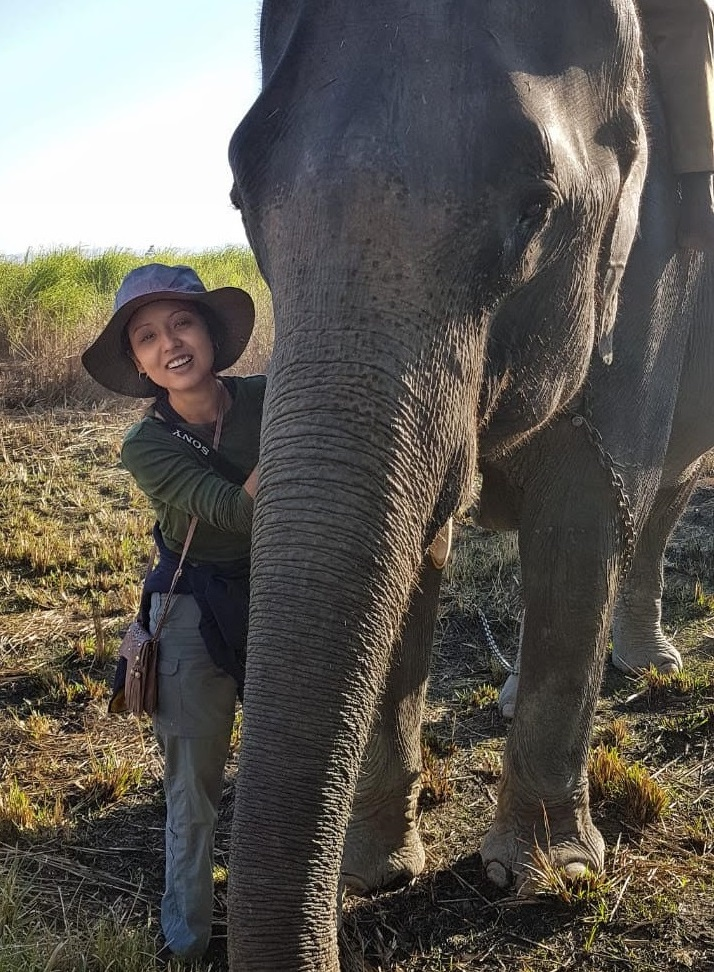
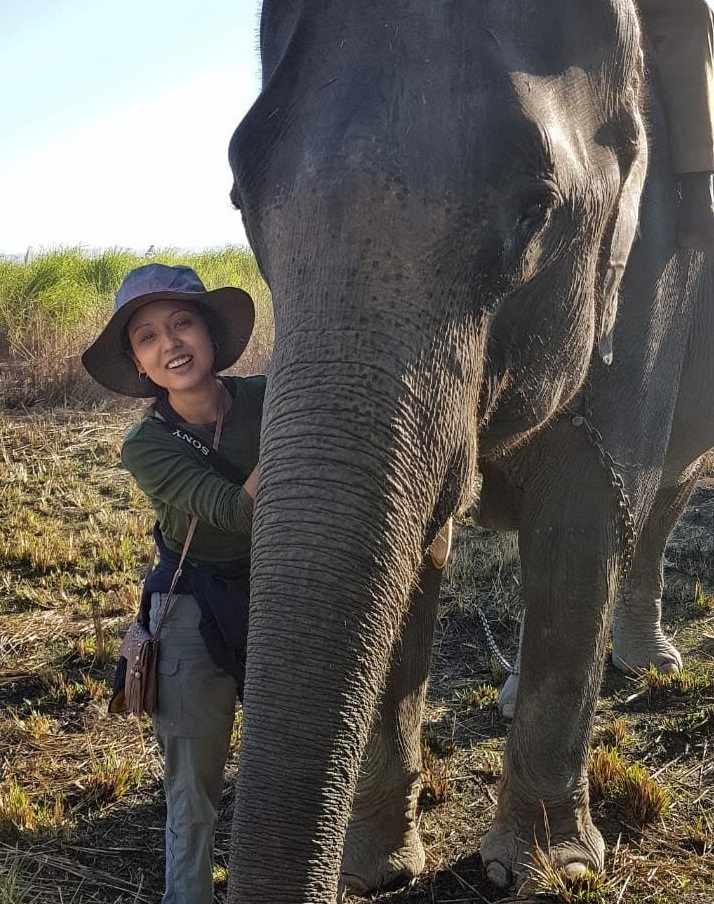
Family photo resized to be equal

diff --git a/family.html b/family.html
@@ -114,7 +114,7 @@
           <div class="col-md-6 d-flex align-items-stretch">
             <div class="card">
               <div class="card-img">
-                <img src="assets/img/family-1.JPG" alt="...">
+                <img src="assets/img/family-2.JPG" alt="...">
               </div>
               <div class="card-body">
                 <h5 class="card-title">ROON BHUYAN: Vice President</h5>
